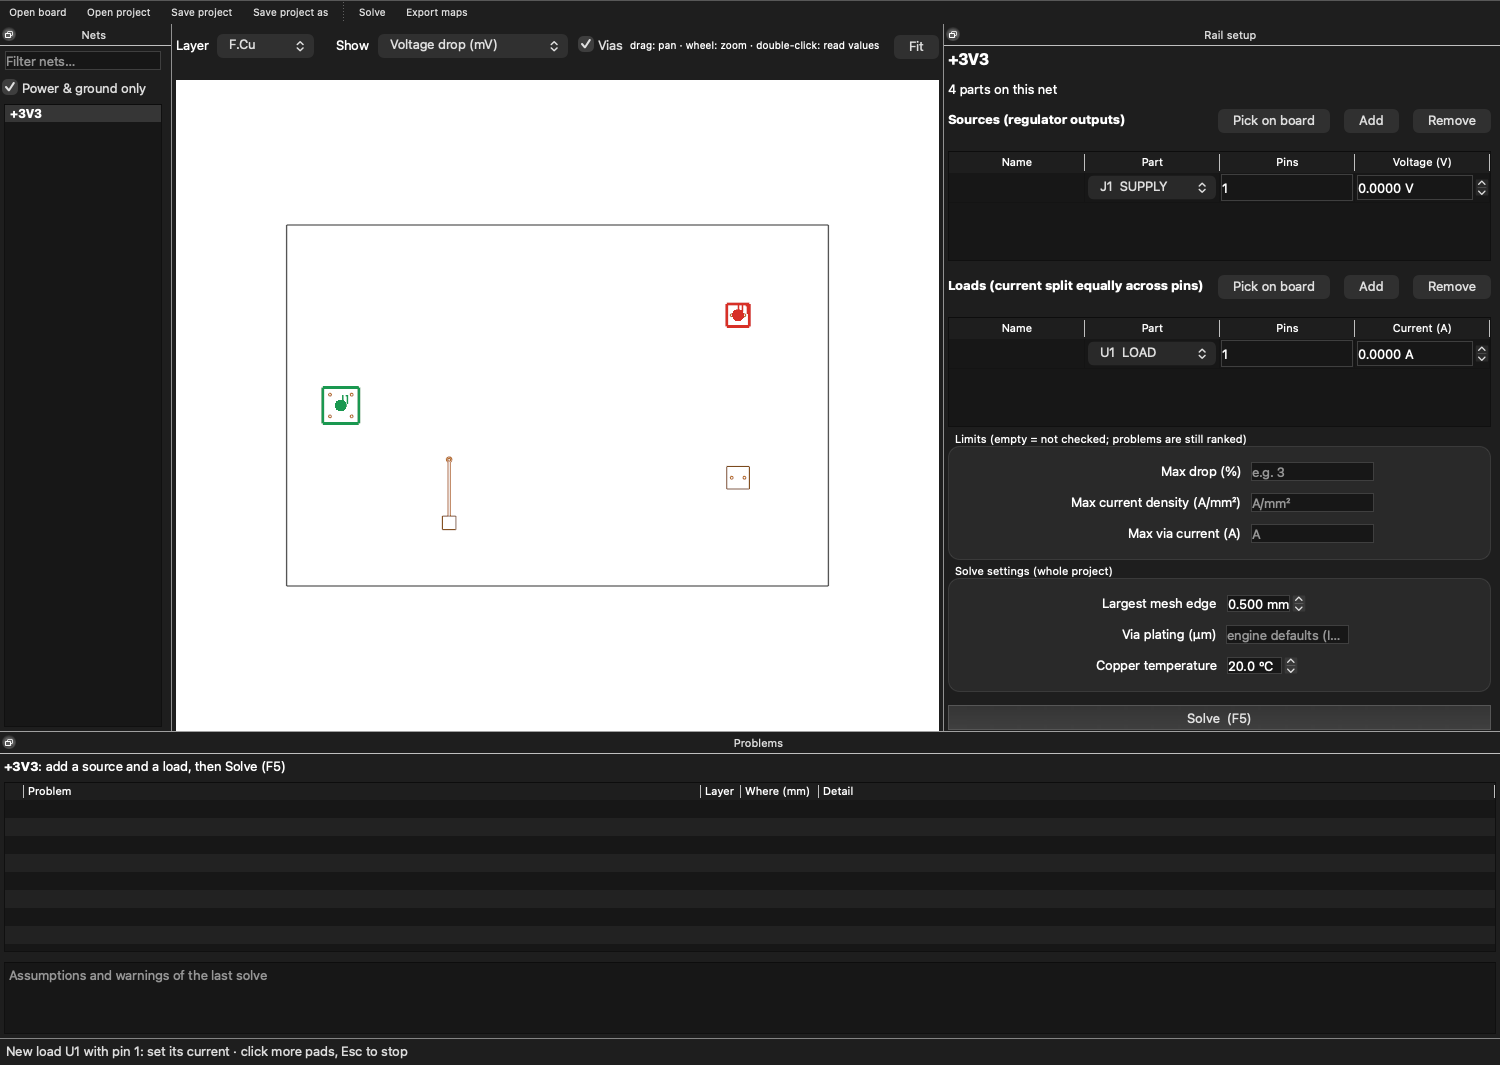
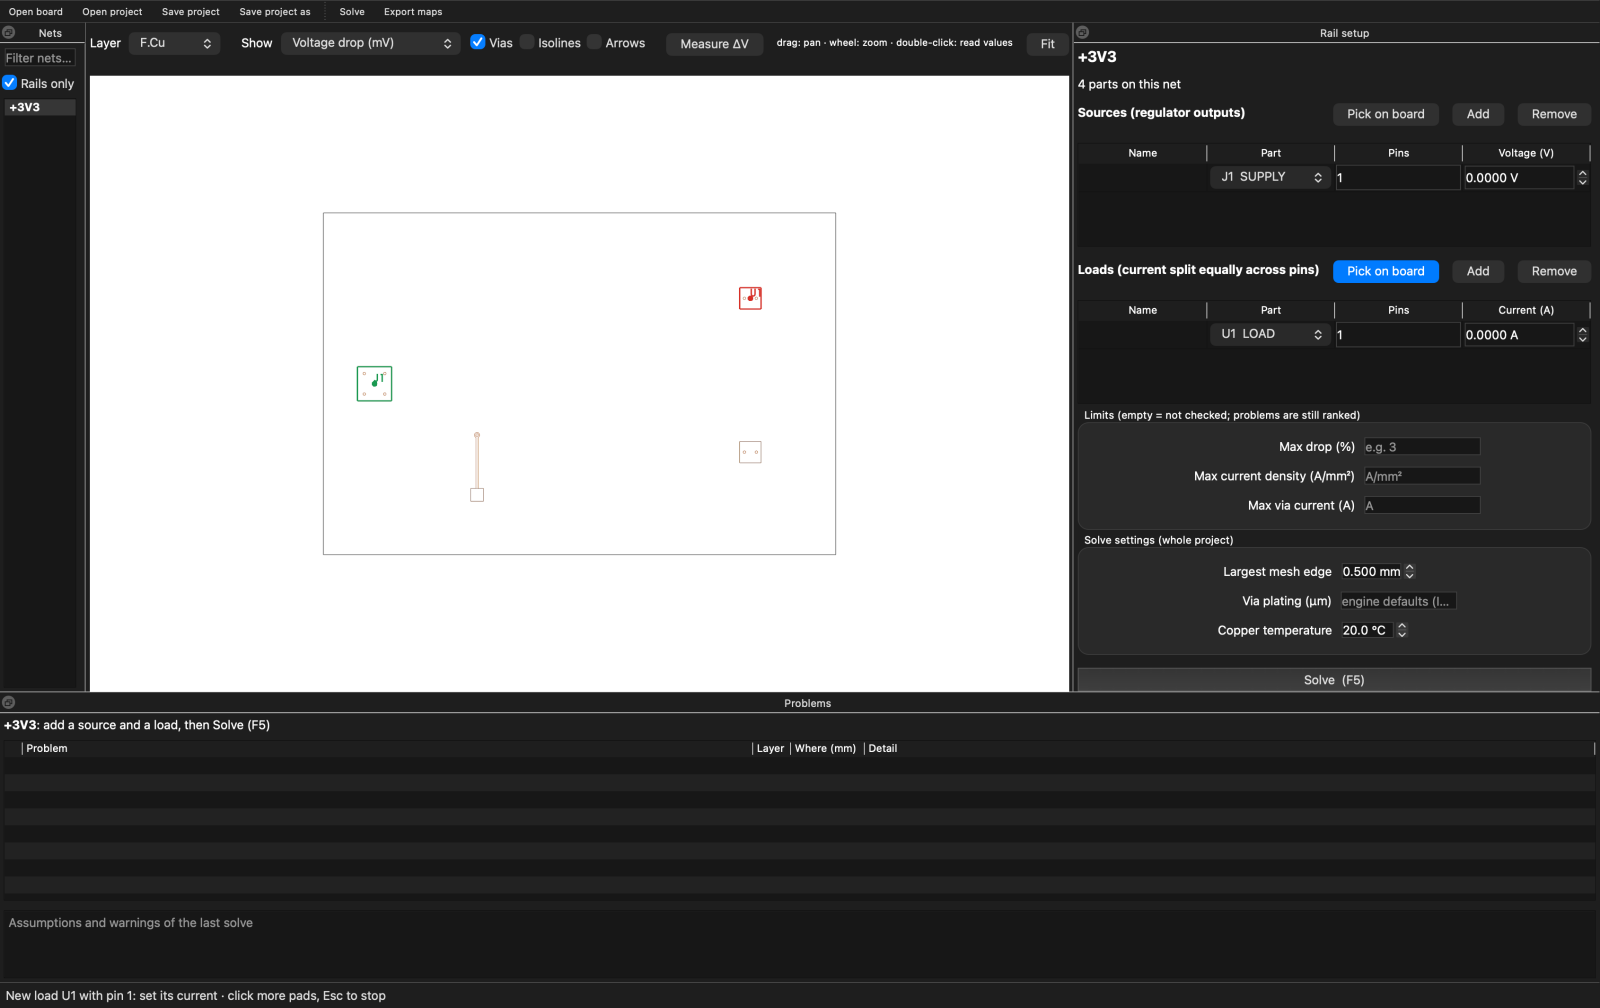
docs: README and screenshots for isolines, arrows, ΔV and marked rails
Screenshots regenerated from the synthetic demo after the GUI Part A merge, with
isolines and arrows on the drop map and a ΔV measurement. The status table gains
the Part A features.

diff --git a/tools/make_docs_screenshots.py b/tools/make_docs_screenshots.py
@@ -111,12 +111,16 @@ def main(argv=None) -> int:
         if window.results.get(NET) is None:
             print("the demo did not solve", file=sys.stderr)
             return 1
+        #    Isolines (equal drop) and arrows (current direction) on.
         window.field_box.setCurrentIndex(window.field_box.findData("drop"))
+        window.show_isolines.setChecked(True)
+        window.show_arrows.setChecked(True)
         window.view.reset_view()
         window.statusBar().showMessage("Solved: the colours show how many mV each point is below the source")
         save(window, "3-drop")
 
-        # 4. Current density, with a probe readout as after a double-click.
+        # 4. Current density with the arrows, and a probe readout as after a double-click.
+        window.show_isolines.setChecked(False)
         window.field_box.setCurrentIndex(window.field_box.findData("current"))
         window.view.reset_view()
         settle()
@@ -125,6 +129,18 @@ def main(argv=None) -> int:
 
         # 5. The problems panel on its own.
         save(window.problems, "5-problems")
+
+        # 6. ΔV between two points: the source pad and U1's pad, on F.Cu where the pads are.
+        window.show_arrows.setChecked(False)
+        window.field_box.setCurrentIndex(window.field_box.findData("drop"))
+        window.layer_box.setCurrentIndex(max(0, window.layer_box.findText("F.Cu")))
+        settle()
+        window.view.reset_view()
+        window.measure.setChecked(True)
+        window.view.measure_at(6.0, 20.0)                            # A: J1
+        window.view.measure_at(50.0, 10.0)                           # B: U1
+        save(window, "6-measure")
+        window.measure.setChecked(False)
     finally:
         for w in windows:
             w.dirty = False                  # never ask to save

diff --git a/README.md b/README.md
@@ -63,8 +63,10 @@ Try it on the demo first: **Open project** → `examples/demo/demo.coppernicus.y
 
 ### 1. Open a board and choose a net
 
-Click **Open board** and choose a `.kicad_pcb` file. The list on the left shows the power and
-ground nets. Untick *Power & ground only* to see every net. Click the net you want to analyse.
+Click **Open board** and choose a `.kicad_pcb` file. The list on the left shows the rails: the
+power and ground nets, recognised by their names and copper pours. Untick *Rails only* to see
+every net. If a rail is missing, right-click its net and choose **Mark as rail**; the choice is
+saved in the project. Click the net you want to analyse.
 
 ### 2. Tell it where the current enters and leaves
 
@@ -101,8 +103,10 @@ Press **Solve** (or **F5**). The board turns into a map of **how many millivolts
 below the source**. The view opens on the layer that loses the most power, and the *Layer* menu
 shows the others. Drag to pan, use the wheel to zoom, and press **Fit** to see the whole board.
 
-In the picture at the top, the slot in the plane forces the current around it, so the loads on
-the far side get less voltage.
+Tick **Isolines** to draw lines of equal drop, at the same levels on every layer, and
+**Arrows** to show which way the current flows. A longer arrow means more current. In the
+picture at the top, the slot in the plane forces the current through the neck below it, so the
+loads on the far side get less voltage.
 
 ### 5. Find where the copper is crowded
 
@@ -112,6 +116,13 @@ point in the status bar.
 
 <p align="center">
   <img src="docs/images/guide-4-current.png" alt="Current-density map: the copper at the end of the slot is bright; the status bar shows the values at a double-clicked point" width="800">
+</p>
+
+To measure the voltage difference between two points, press **Measure ΔV** and click point A,
+then point B. The status bar shows ΔV A→B and both voltages. Press **Esc** to stop.
+
+<p align="center">
+  <img src="docs/images/guide-6-measure.png" alt="Measuring ΔV between the source pad and U1's pad: the status bar shows 9.6 mV" width="800">
 </p>
 
 ### 6. Read the Problems panel
@@ -212,13 +223,16 @@ rails:
 | Pass/fail only against limits you set | ✅ |
 | Copper loss per layer and in the vias | ✅ |
 | Net ties found automatically and solved as shorts | ✅ |
-| Sources and loads picked by clicking pads | ✅ (a real mouse click on a Retina display not yet tested) |
-| Double-click readout of V, drop and \|J\| | ✅ (the mouse double-click itself not yet tested) |
+| Sources and loads picked by clicking pads ("Pick on board"); pads of another net are refused with a message | ✅ |
+| Double-click readout of V, drop and \|J\| | ✅ |
+| Drop isolines (the same levels on every layer) and current-flow arrows (length ∝ √\|J\|) | ✅ |
+| ΔV between two clicked points ("Measure ΔV") | ✅ |
+| Nets marked as rails by hand, saved in the project (right-click a net) | ✅ |
 | Command line with exit codes for scripts and CI | ✅ |
-| Drop isolines, current-flow arrows, ΔV between two points | 🔄 in progress |
 | AI-agent interface: MCP server and `--json` on the CLI ([guide](docs/agents.md)) | ✅ first version (registration in a real Claude host not yet tried) |
 | Interactive HTML report, GitHub Action for KiCad repositories | ⏳ |
-| Before/after comparison of two solves | ⏳ |
+| Before/after comparison of two solves, loss-by-layer chart | 🔄 in progress |
+| Readout while hovering (today: double-click) | ⏳ |
 | Power tree with ground return, board temperature | ⏳ (KiPI's engine has both) |
 | AC impedance with decoupling capacitors, DC-DC ripple, tolerance budget | ⏳ (KiPI's engine has them) |
 | Standalone `.app` / `.exe` that needs no uv | ⏳ later |
